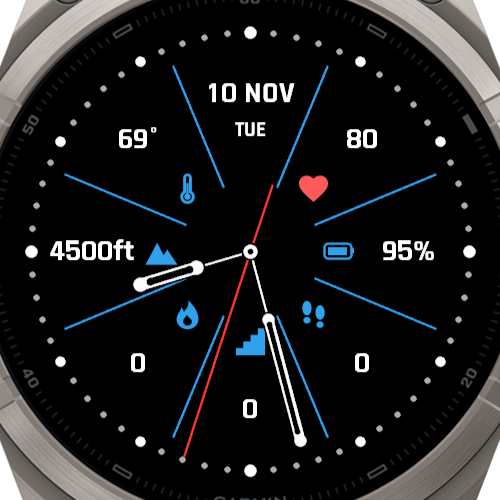
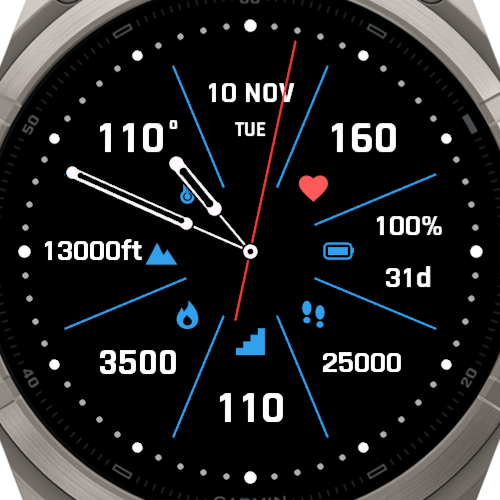
Update README for the current face
- New screenshot from the test build, captioned with its fixed
  worst-case values.
- Describe the dot dial, hands, the eight stats and how often each is
  read, the battery cell, the always-on view and the cached drawing.
- Add the test build to the build steps and the file list.

diff --git a/README.md b/README.md
@@ -4,24 +4,65 @@ Analog Connect IQ watch face for the Garmin fēnix 9 Pro 51mm (466×466 AMOLED).
 
 ![DataDial in the Connect IQ simulator](docs/screenshot.png)
 
-- Hour and minute hands; a red seconds hand while the watch is awake (after a wrist raise).
-- Eight fields around the dial, clockwise from 12: date, heart rate, battery, steps,
-  floors, calories, elevation, temperature.
-- Elevation and temperature follow the watch's unit settings.
-- Burn-in-safe sleep mode: if always-on is enabled, only thin gray hands are drawn,
-  shifted a few pixels each minute.
+*Simulator screenshot of the test build (`./build.sh test`), which shows fixed worst-case values to check the layout: 25,000 steps, 110 floors, 3,500 calories, heart rate 160, 13,000 ft, 110°, 100% battery with 31 days left.*
 
-All geometry and text sizes are relative to the screen radius, so other round
-displays only need to be added to `manifest.xml`.
+## The face
 
-## Layout
+- **Dial:** a dot for every minute around the display edge, larger at the hours and
+  largest at 12, 3, 6 and 9.
+- **Hands:** hollow hour and minute hands on thin stems, an open center hub, and a red
+  seconds hand while the watch is awake. The minute hand moves every 10 seconds and the
+  hour hand every 10 minutes.
+- **Stats:** eight sections divided by blue lines, each with a blue icon toward the
+  center and a white value toward the edge. Clockwise from 12:
+
+| Section | Shows | Read |
+|---|---|---|
+| 12 o'clock | Date, weekday underneath | On wake-up and when midnight passes |
+| 1:30 | Heart rate | Every second |
+| 3 o'clock | Battery %, with the watch's own estimate of days left underneath (hours under a day) | Once a minute; every second while charging |
+| 4:30 | Steps | Every 3 seconds |
+| 6 o'clock | Floors climbed | Every 10 seconds |
+| 7:30 | Calories | Every 10 seconds |
+| 9 o'clock | Elevation | Every 10 seconds |
+| 10:30 | Temperature | Every 10 seconds |
+
+Everything is also re-read each time the watch wakes. A value that isn't available
+shows as `--`. Elevation and temperature follow the watch's unit settings (ft/m, °F/°C).
+
+- **Battery:** the icon fills to the charge level. Below 20% the icon and percentage turn
+  red. While charging, a green lightning bolt appears over the icon.
+- **Always-on mode:** if always-on display is enabled, the sleeping watch shows the dot
+  dial and the hour and minute hands in dim gray, with no stats or seconds hand. Everything
+  shifts by up to 2 px each minute to prevent burn-in. The simulator's 24-hour burn-in check
+  reports no burn-in, at about 1% luminance.
+
+All sizes and positions are relative to the screen radius, so other round displays only
+need to be added to `manifest.xml`.
+
+## Power
+
+- The dots, divider lines and icons are drawn once, into an off-screen image.
+- The stat values are drawn into a second image, and only the stat whose value changed is
+  redrawn.
+- Each frame copies that image to the screen and draws the hands on top.
+
+In the simulator this takes about 31 ms per frame while awake, against 45 ms for the
+first, much simpler version of the face. Those are PC timings, useful for comparing
+versions, not as watch timings.
+
+## Files
 
 | File | Purpose |
 |---|---|
 | `manifest.xml` | App id, target products, `SensorHistory` permission |
 | `source/DataDialApp.mc` | Application entry point |
-| `source/DataDialView.mc` | Drawing: ticks, fields, hands, sleep mode |
-| `source/Metrics.mc` | Reads and formats each data value (`--` when unavailable) |
+| `source/DataDialView.mc` | Drawing, refresh schedule, cached images, always-on view |
+| `source/Metrics.mc` | Reads and formats each value |
+| `source/TestValues.mc` | Fixed values for the test build; does nothing in the normal build |
+| `resources/drawables/` | Stat icons (SVG, stored as PNG for smooth edges) |
+| `monkey.jungle` | Normal build |
+| `monkey.test.jungle` | Test build with fixed values |
 
 ## Build
 
@@ -30,18 +71,25 @@ Requires Connect IQ SDK 9.3.0 and the developer key at `../developer_key`.
 ```sh
 ./build.sh          # build bin/DataDial.prg
 ./build.sh run      # build, start the simulator, load the face
+./build.sh test     # test build with fixed worst-case values, in the simulator
 ```
+
+The test build goes to `bin/DataDial-test.prg`. Don't copy that one to the watch.
 
 `build.sh` uses the Java runtime bundled with STM32CubeMX unless `JAVA_HOME` is set.
 
 ## Install on the watch
 
-1. Build (above). The `.prg` is built for the watch, not only the simulator.
+1. Build with `./build.sh`. The `.prg` runs on the watch, not only in the simulator.
 2. Connect the watch over USB. It shows up in File Explorer as a portable device.
 3. Copy `bin/DataDial.prg` into `GARMIN\Apps` on the watch.
-4. Unplug, then pick **DataDial** under Watch Face on the watch.
+4. Unplug, then choose DataDial in the watch's list of watch faces.
 
 ## Notes
 
 - Temperature comes from the watch's own sensor, so it reads high while worn.
 - Heart rate is the live reading when available, otherwise the latest history sample.
+- The battery estimate is the same number the watch shows under Power Manager → Battery
+  Estimates.
+- Battery Saver mode can swap DataDial for a simpler watch face if its **Watch face**
+  option is enabled.
